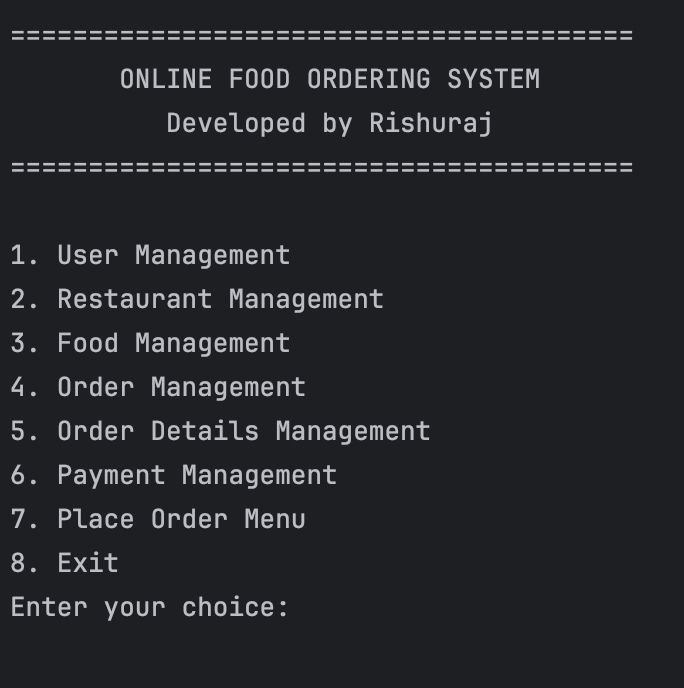
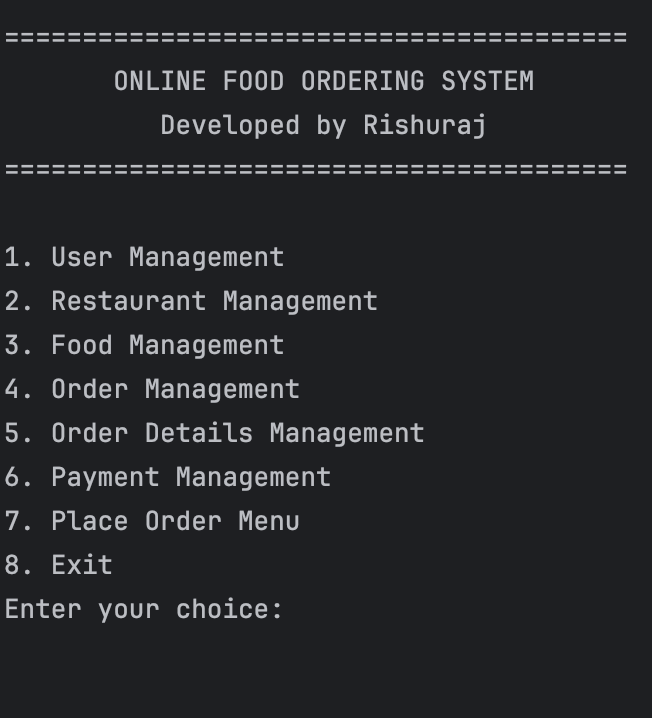
Improve README and add project screenshots

diff --git a/src/main/java/com/rishuraj/Main.java b/src/main/java/com/rishuraj/Main.java
@@ -2,7 +2,7 @@ package com.rishuraj;
 import com.rishuraj.model.*;
 import com.rishuraj.service.*;
 
-import java.util.Scanner;
+import java.util.*;
 public class Main {
 
     static Scanner sc = new Scanner(System.in);

diff --git a/README.md b/README.md
@@ -2,6 +2,21 @@
 
 A Java console-based application developed using Java, JDBC, and MySQL for managing an online food ordering system. The project demonstrates database connectivity, object-oriented programming, and CRUD operations through a menu-driven interface.
 
+##  Application Screenshots
+
+|                     Main Menu                     |                  Restaurant Management                  |                  Food Management                  |                       Place Order                       |
+|:-------------------------------------------------:|:-------------------------------------------------------:|:-------------------------------------------------:|:-------------------------------------------------------:|
+| <img src="screenshots/main-menu.png" width="300"> | <img src="screenshots/main-restaurant.png" width="300"> | <img src="screenshots/main-food.png" width="300"> | <img src="screenshots/main-placeorder.png" width="300"> |
+
+---
+
+---
+## Badges 
+![Java](https://img.shields.io/badge/Java-23-orange)
+![MySQL](https://img.shields.io/badge/MySQL-Database-blue)
+![JDBC](https://img.shields.io/badge/JDBC-Connector-green)
+![Maven](https://img.shields.io/badge/Maven-Build-red)
+
 ## Features
 
 - User Management
@@ -46,6 +61,16 @@ This project was developed to strengthen my understanding of Java, JDBC, MySQL, 
 5. Run `Main.java`.
 
 ---
+
+## What I Learned
+
+- Built a Java application using JDBC and MySQL
+- Performed CRUD operations using PreparedStatement
+- Designed a relational database with foreign keys
+- Implemented order placement with automatic ID generation
+- Used Git and GitHub for version control
+- Organized the project using models and service classes
+
 ## Future Improvements
 
 - Develop a web-based version using Spring Boot and REST APIs.